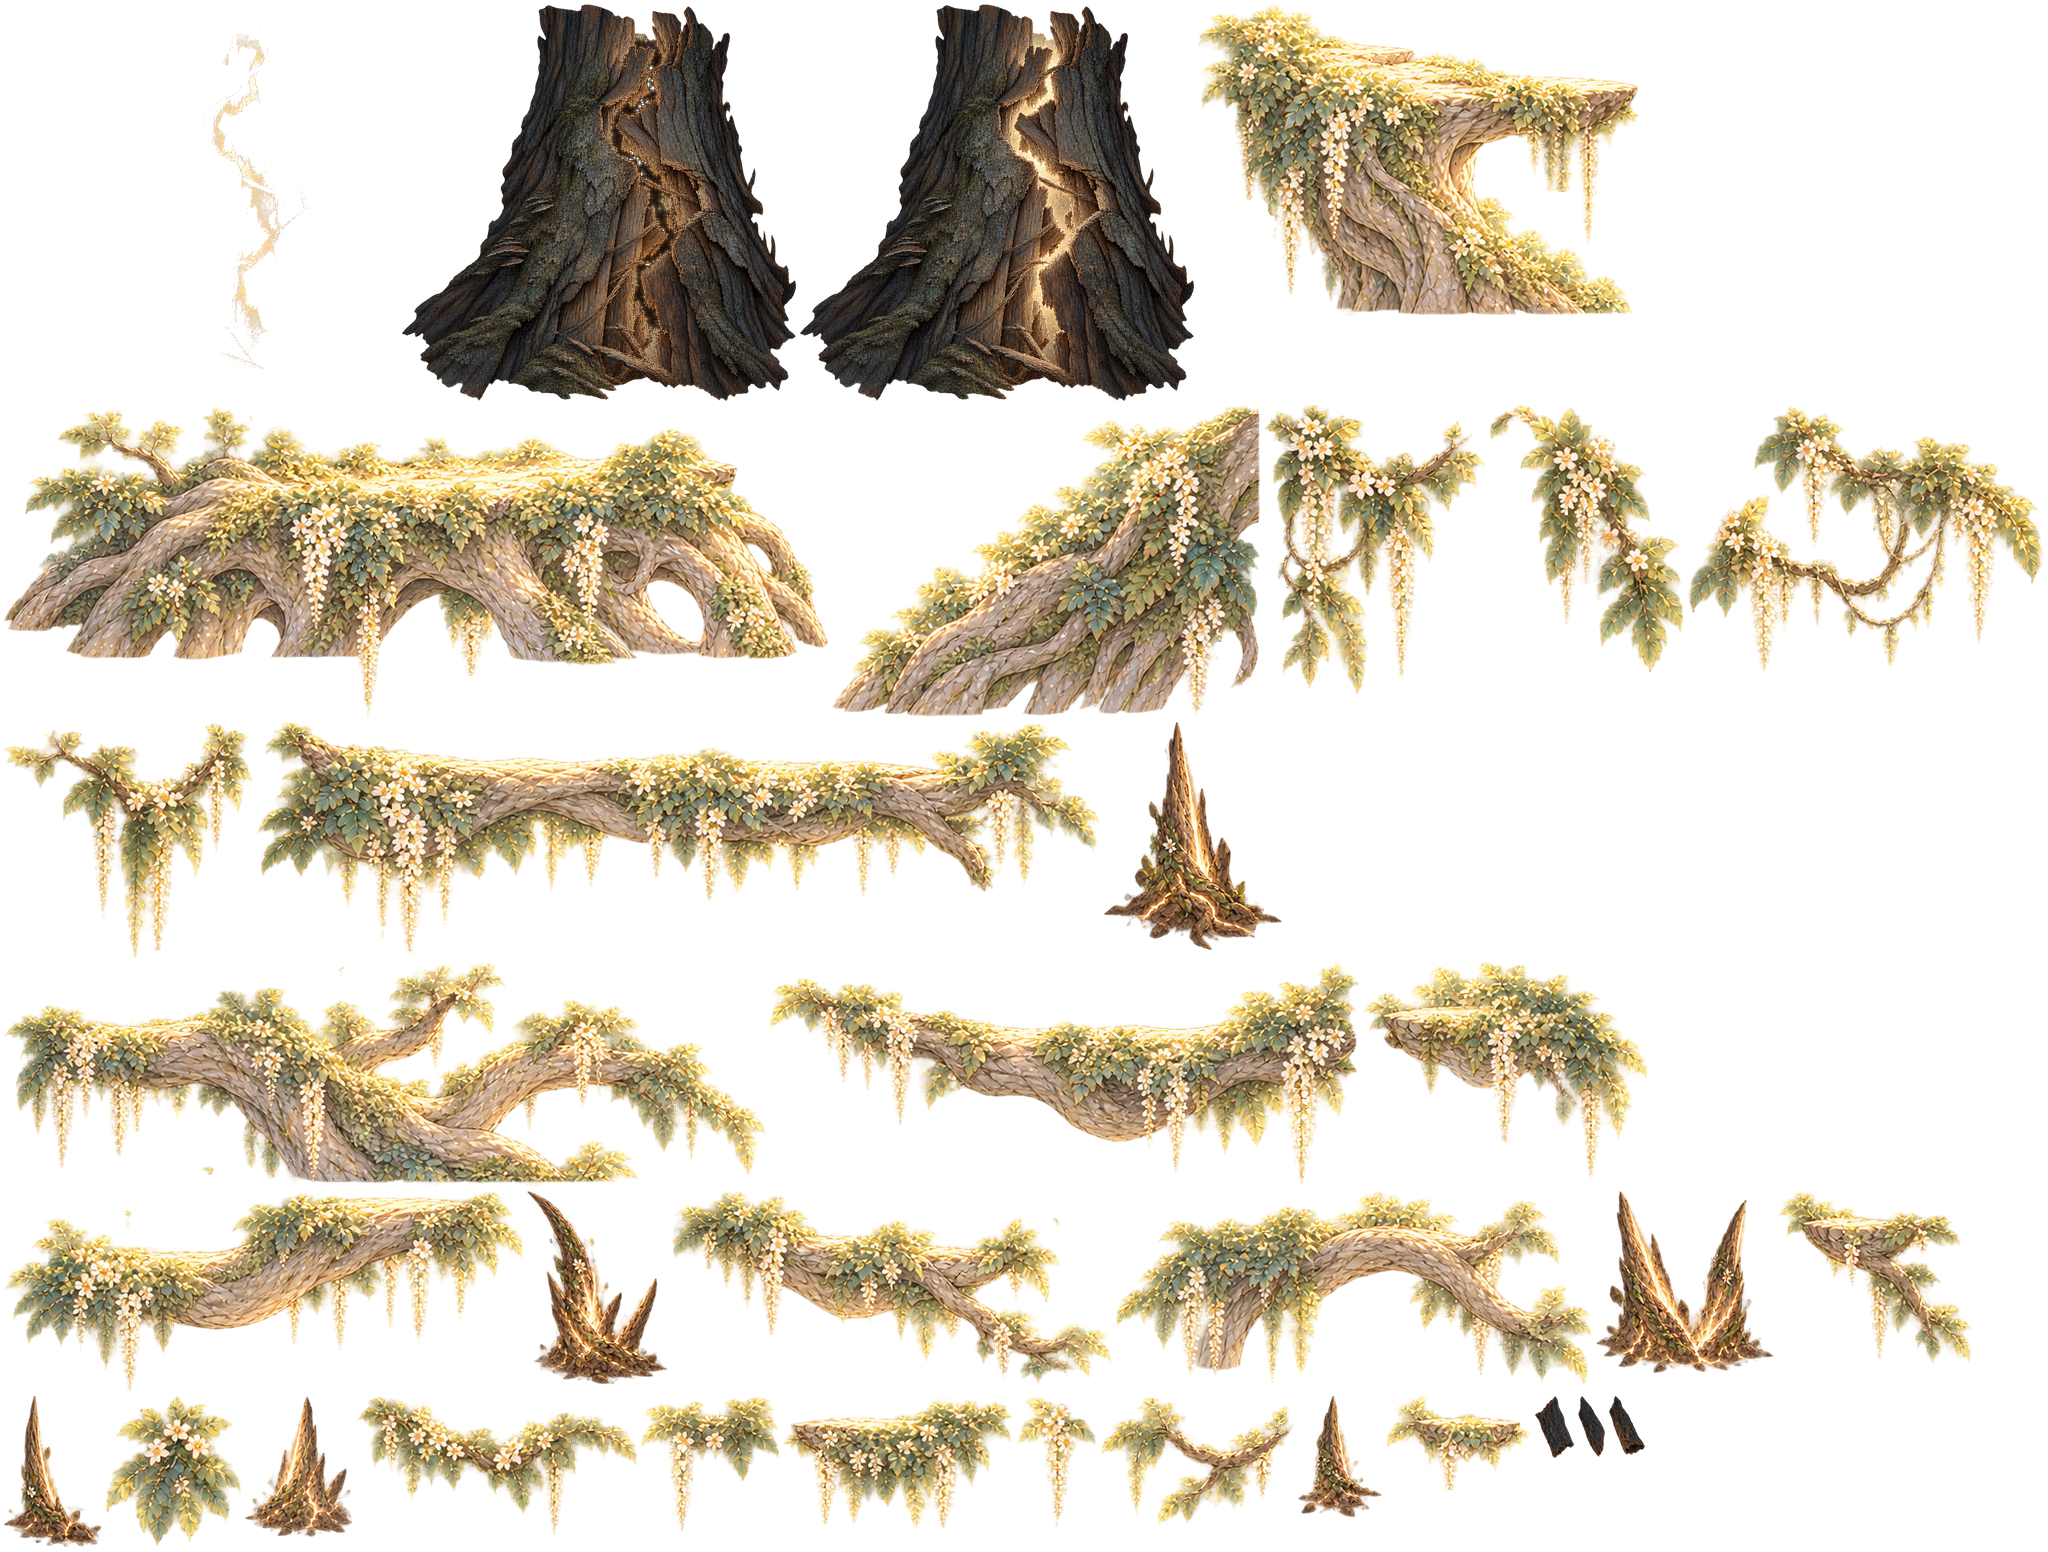
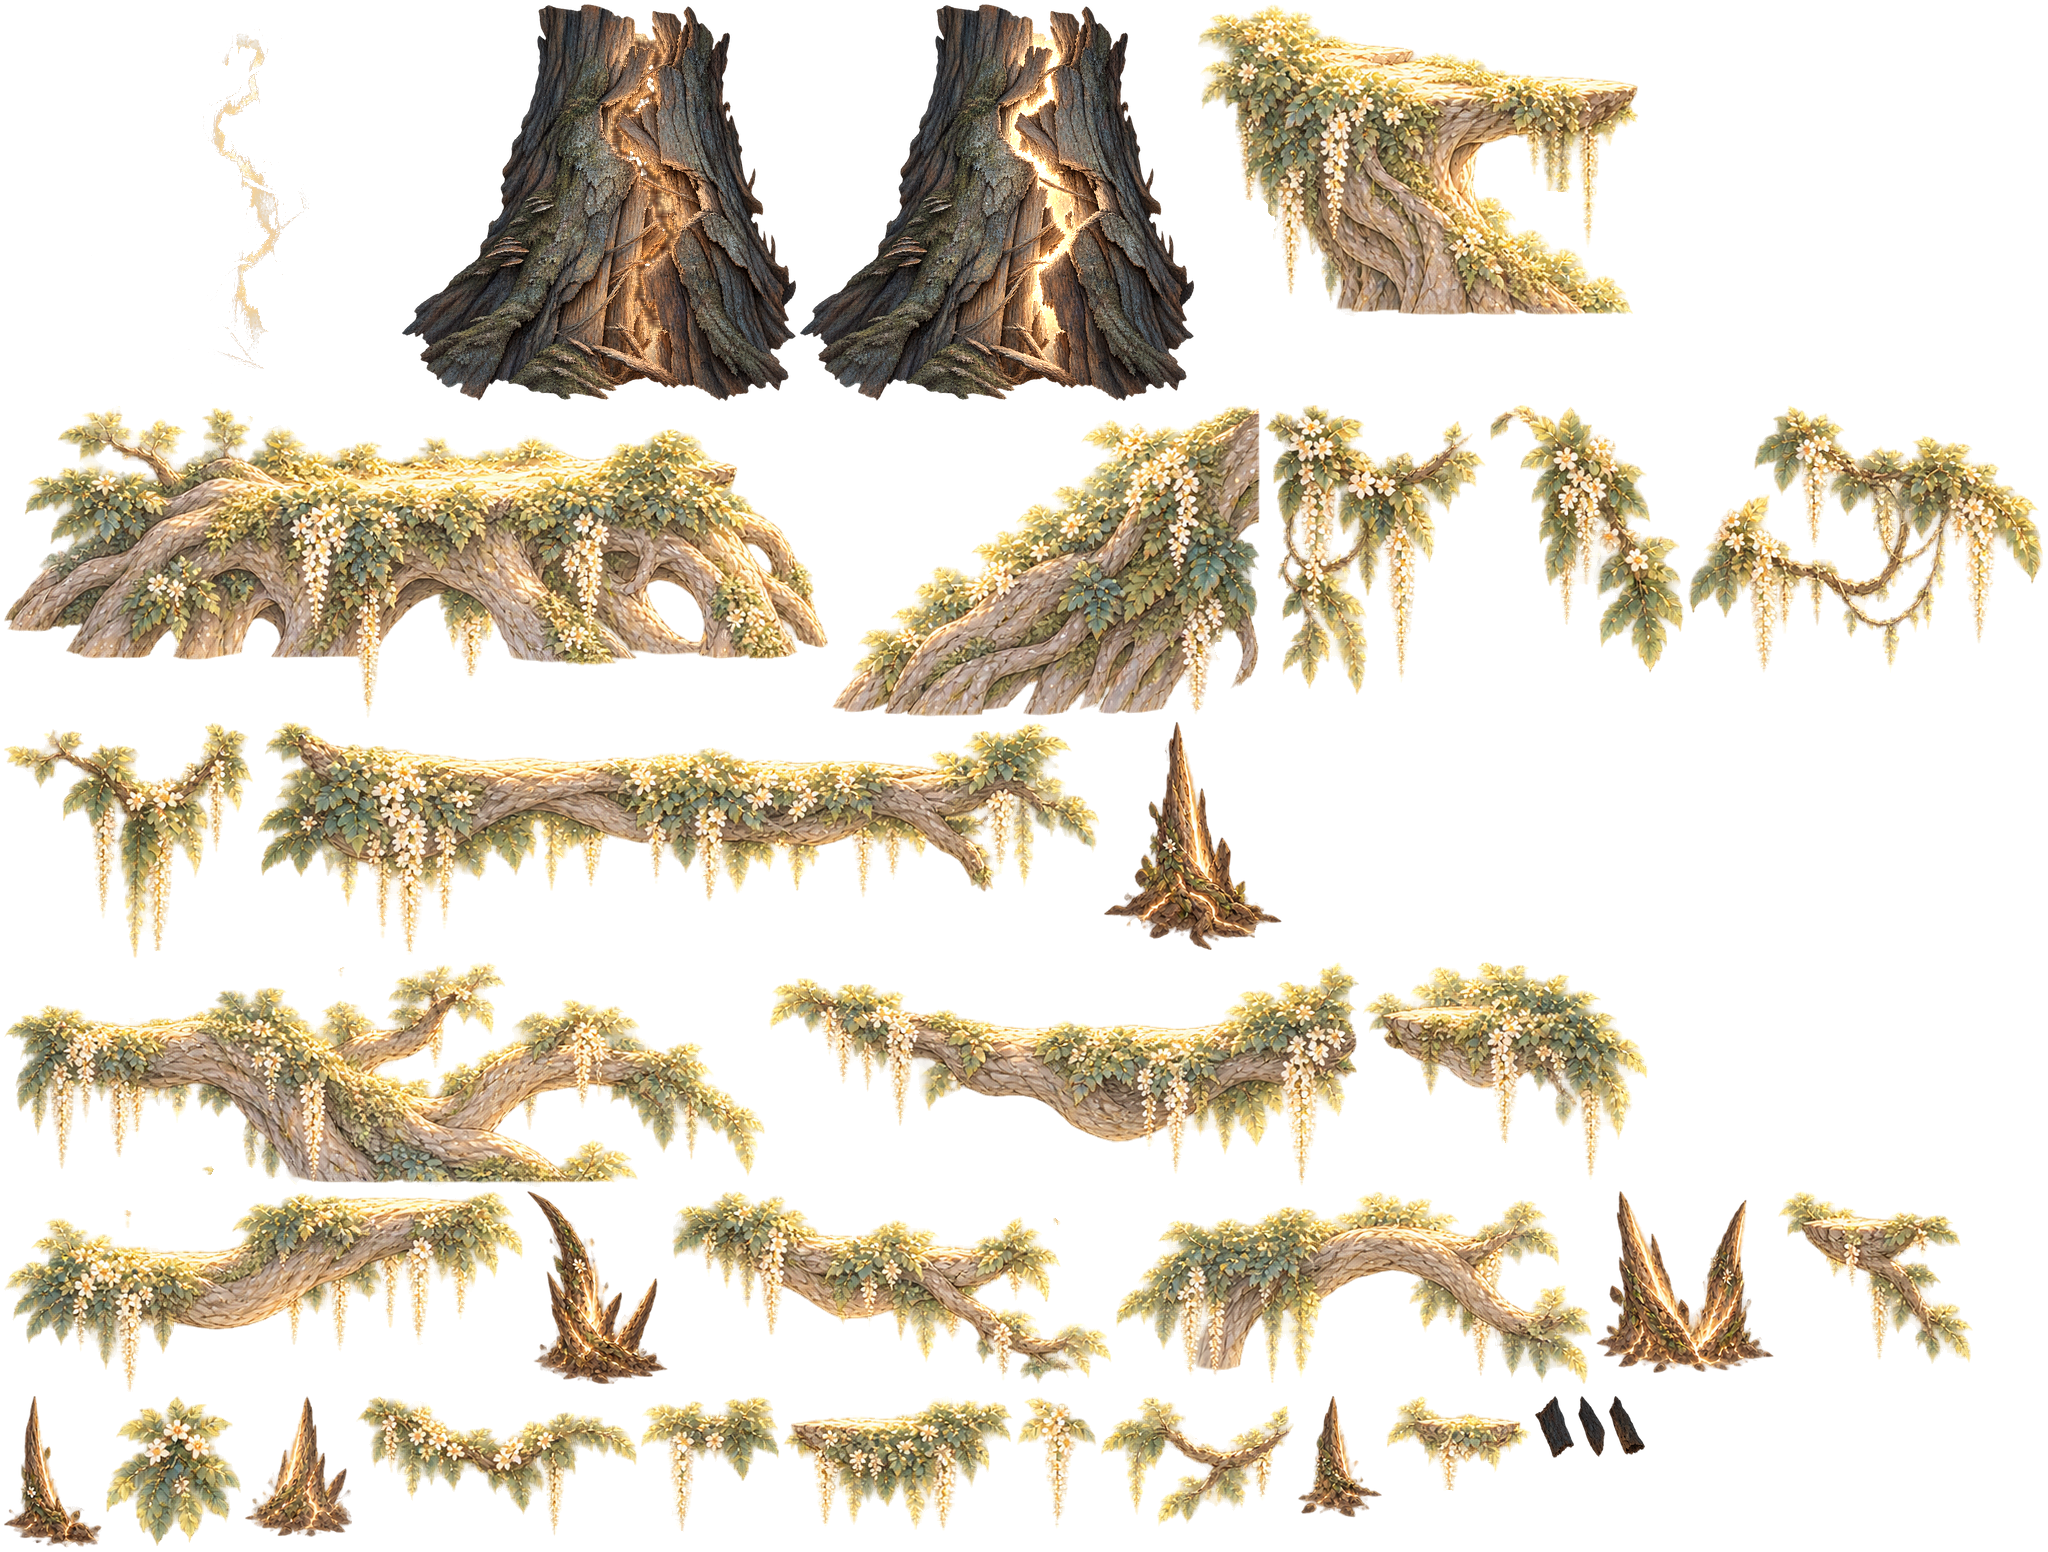
지형 리뉴얼 1: 몸통 결을 금 간 나무 껍질에서 만들기·밝기 굽기, 바닥 띠 이음매 없애기(뒤집기 페이드 고침), 걷는 구간 끝 다듬기, 설명서 TERRAIN.md

Changed region(s): [[0.2188, 0.0, 0.5938, 0.2784]]

diff --git a/TERRAIN.md b/TERRAIN.md
@@ -1,0 +1,121 @@
+# 지형 그림 조각 시스템 (TERRAIN)
+
+기획자가 준 **투명 배경 지형 그림 시트**에서 조각을 잘라, 방의 발판·바닥·경사·벽에 입히는 방식이다.
+코드로 그리던 옛 지형(`TerrainStyle`, 이끼·덩굴을 도형으로 그림)을 지역별로 하나씩 바꿔 간다.
+**충돌(발판 사각형·경사 다각형)은 그대로**고, 겉모습만 바뀐다. 그림 옷이 없는 지역은 옛 방식으로 그대로 그린다.
+
+지금 그림 옷이 있는 지역: **수관(canopy)** 13방 전부.
+
+---
+
+## 1. 무엇이 어디에 있나
+
+| 파일 | 하는 일 |
+|---|---|
+| `data/terrain/<지역>.json` | 사람이 쓰는 지역 설명: 자를 조각 목록(시트·상자·역할), 색, 몸통 결 만들기, 잿빛 팔레트, 역할별 세기 |
+| `tools/terrain_cut.gd` | 자르기 도구: 시트 → `art/terrain/<지역>/` (atlas.png, fill.png, fill_v.png, pieces.json) + 미리보기 |
+| `art/terrain/<지역>/pieces.json` | 도구가 잰 값: 조각의 atlas 자리, 발 딛는 선(top), 걷는 구간(walk), 두께(depth) |
+| `scripts/world/terrain_skin.gd` | `TerrainSkin`: 위 두 파일을 읽은 '그림 옷'. 없으면 null → 옛 방식 |
+| `scripts/world/terrain_art.gd` | `TerrainArt`: 발판·경사·가시의 자식으로 붙어 조각을 이어 붙인 겉모습을 한 번 만든다 |
+| `scripts/world/cracked_art.gd` | `CrackedArt`: 금 간 나무 벽 그림 (비밀 벽·비밀 천장·금 간 벽) — 맞을수록 갈라지고, 부서지면 조각이 떨어진다 |
+| `scripts/autoload/purity.gd` | 잿빛 팔레트 표(64×8)를 지역마다 만들어 공용 재질에 넣는다 |
+| `shaders/ash_purify*.gdshader` | 팔레트 바꾸기 셰이더 (정화 전 잿빛 ↔ 정화 후 원래 색, 한 점에서 번지는 연출) |
+| `tools/room_shots.gd` | 방 스크린샷 (정화 전·후, 바둑판 또는 원하는 자리) |
+| `tools/probe_terrain.tscn` | 시험 (9번 항목이 그림 조각 지형) |
+
+`Platform`(`platform.gd`)·`TerrainPolygon`(`terrain_polygon.gd`)·`Thorns`(`thorns.gd`)는 `_ready` 에서
+`TerrainSkin.for_node(self)` 로 지역 그림 옷을 찾고, 있으면 `TerrainArt` 를 만들어 붙인다 (없으면 옛 그리기).
+지역은 조상 `Room` 의 `region` (노드의 `style_region` 으로 강제할 수 있다).
+
+---
+
+## 2. 조각의 역할 (role)
+
+| 역할 | 쓰는 곳 | 붙이는 법 |
+|---|---|---|
+| `branch` | 떠 있는 얇은 발판(높이 90 이하·폭 120 이상), 얇은 경사 | 걷는 구간을 발판 폭에 맞춘다: 한 조각(크기 0.85~1.2배, 가로 늘이기 ±15%)이 맞으면 그것, 아니면 왼끝 + 가운데 토막들 + 오른끝을 40px 겹쳐 이어 붙인다 |
+| `slab` | 짧은 한쪽 방향(one_way) 발판 (폭 `params.slab.max_w` 이하, 양 끝이 드러난 것) | 위와 같음 |
+| `ground` | 큰 바닥·덩어리·두꺼운 경사의 드러난 윗면 | 윗면을 따라 토막을 이어 깐다. 발 선 아래 `band` px 까지만 그리고 `fade` px 동안 몸통 결로 녹아든다. 절벽 끝은 끝 조각(뿌리가 늘어진 부분), 이웃 지형으로 이어지면 `overlap` px 겹쳐 서서히 사라진다 |
+| `hang` | 드러난 아랫면(천장·덩어리 밑), 드러난 높은 옆면 | 덩굴·꽃 조각을 띄엄띄엄 매단다 |
+| `bush` | 큰 윗면 | 가끔 작은 덤불 |
+| `thorn` | 가시(Thorns) | 크기를 섞어 두 줄로 겹쳐 세운다. 밑동은 바닥에 묻고 끝은 판정 위로 |
+| `shard` | 금 간 벽이 부서질 때 | 껍질 파편 |
+| `cracked` (+`_closed`, `_glow`) | 금 간 벽 | `extras` 의 `kind: "cracked"` 가 세 장을 만든다 (아래 4장) |
+| `source` | 몸통 결 재료만 | `"atlas": false` — atlas 에 안 들어간다 |
+
+몸통(덩어리 안쪽)은 **이음매 없는 나무껍질 결**(`fill.png` 가로 결, `fill_v.png` 세로 결 — 벽·기둥처럼 세로로 긴 덩어리)을
+전역 좌표로 깔아서 이웃 덩어리와 결이 이어진다. 윗면에서 멀어질수록 어두워지고(`fill.deep`), 드러난 가장자리는 조금 어둡다(`fill.rim`).
+드러난 옆변·아랫변은 그림에서만 살짝 울퉁불퉁하다(충돌은 곧은 그대로).
+
+**드러남**: 옆 지형(같은 부모 아래 발판·경사 — 부서지는 벽은 뺀다)에 덮였거나 방 경계 밖이면 장식·띠·끝 조각을 붙이지 않는다.
+
+---
+
+## 3. 새 지역 그림 옷 만들기 (다른 지역 담당자용)
+
+1. **시트 보기**: 조각 상자를 미리 찾아 둔 목록이 있으면 그걸 쓴다. 없으면
+   `godot --headless --path . --script tools/sheet_catalog.gd -- 익스펜션/그림/지형/<시트>.PNG --out <폴더>`
+   → `<폴더>/<시트>/overview.png`(상자 번호), `catalog.json`(상자 x,y,w,h).
+2. **설명 쓰기**: `data/terrain/canopy.json` 을 복사해 `data/terrain/<지역>.json` 으로.
+   - `region`, `name`, `cut.sheet`(시트 경로, `res://익스펜션/...` — 읽기만 한다)
+   - `cut.pieces`: `{"name", "role", "src": [x, y, w, h]}` — src 는 대략적인 상자면 된다. 상자에 가장 많이 든 덩어리(+상자에 절반 넘게 든 덩어리)를 자른다.
+     옆 조각이 섞이면 `"keep": "largest"`. 다른 시트에서 가져오면 `"sheet"`. 크면 `"scale": 0.5`.
+     자동으로 잰 걷는 구간이 이상하면 `"walk": [x0, x1]`(조각 안 px)로 바로잡는다.
+   - `cut.fill`: 몸통 결 재료(`from`: 조각 이름들)와 고를 색 범위(`hue` 도, `sat`, `val`), 네모 크기(`patch`), 결 방향(`vertical`), 밝기(`bright`)
+   - `cut.extras`: 금 간 벽 (`{"name": "cracked", "kind": "cracked", "sheet", "src", "out_scale", "bright"}`)
+   - `tint`(정화 후 색 곱하기, 1 이하), `lift`(발 선을 충돌 윗면보다 몇 px 위에), `fill`(몸통 밝기), `params`(역할별 세기), `ash`(잿빛 팔레트, 4장)
+3. **자르기**: `/Users/wj/Projects/SeedWT/godot --headless --path . -s res://tools/terrain_cut.gd -- <지역>`
+   → `art/terrain/<지역>/` 와 `screenshots/terrain_<지역>_pieces.png` (빨간 선 = 발 딛는 선, 초록 = 걷는 구간 끝, 옅은 빨강 = 걷는 구간 밖).
+   그 다음 **꼭** `tools/cloud_bootstrap.sh` (또는 `godot --headless --import`) — 안 하면 게임이 옛 그림을 쓴다.
+4. **확인**: 아래 5장. 그 지역 방을 `ART_ROOMS`(tools/probe_terrain.gd)에 더하면 시험이 맞춤까지 잰다.
+5. 그림 옷을 잠깐 끄려면 `data/terrain/<지역>.json` 에 `"enabled": false`.
+
+`data/terrain/_objects.json` 은 지역이 아닌 단독 그림(기록물 양피지 `art/objects/record_parchment.png`)을 자르는 설명이다 (`enabled: false`).
+
+### 발 딛는 선 (맞춤의 핵심)
+도구가 조각마다 열(세로줄)별로 **빽빽한 윗면**(불투명 픽셀이 12px 이어지기 시작하는 높이)을 찾고,
+8px 마다 ±56px 안의 60% 백분위 → 이웃과 평균으로 고른 선을 `pieces.json` 의 `top` 에 적는다 (잎 끝 몇 장은 무시).
+**걷는 구간**(`walk`)은 선이 가운데 높이에서 크게 벗어나지 않고 아래가 차 있는 가장 긴 구간이며,
+끝 24px 의 90% 이상이 발 선 8px 아래까지 차 있을 때까지 안쪽으로 줄인다 (둥근 끝 위에 충돌 끝이 오지 않게).
+게임은 이 선을 펴서 충돌 윗면에 놓는다 → 소녀는 늘 그림 위에 서 있다.
+
+---
+
+## 4. 잿빛 ↔ 정화 (팔레트 바꾸기)
+
+`ash_purify` 셰이더는 원래 색의 **밝기와 색상**으로 지역의 잿빛 표(64×8 그림)를 찾아 바꾼다:
+0번 줄 = 무채색(밝기 → 잿빛 색), 1~6번 줄 = 빨강·노랑·초록·청록·파랑·자홍 띠. 채도가 낮으면 무채색 줄.
+밝기 순서가 지켜져 그림이 뭉개지지 않고 잎·껍질·꽃이 서로 다른 잿빛으로 남는다. 1 넘는 빛(발광)은 밝기를 지킨다.
+
+표는 `data/terrain/<지역>.json` 의 `ash` 로 정한다:
+```json
+"ash": {
+  "neutral": [[0.0, "#14161b"], [0.55, "#7d828b"], [1.0, "#e6e8ea"]],
+  "hues": {"green": [[0.0, "#121619"], [0.6, "#7e888a"], [1.0, "#e2e7e6"]], "yellow": [...]}
+}
+```
+(밝기 0~1 → 그 밝기의 잿빛 색, 사이는 이어 칠함. 정하지 않은 색상 띠는 무채색 줄을 쓴다.)
+`ash` 가 없는 지역은 `Purity.ASH_TINTS` 색조로 기본 표를 만든다 (옛 셰이더보다 중간 밝기가 밝다 — 기획자 의견 "잿빛이 너무 어둡다").
+`Purity.apply_region` 이 방에 들어올 때 그 지역 표를 공용 재질에 넣고, `play_purify` 는 그대로 한 점에서 번진다.
+배경·안개·잎·빛줄기·지형·가시·금 간 벽 모두 같은 공용 재질이라 함께 바뀐다. 정화된 곳(purity 1)은 표를 찾지 않는다(가벼움).
+
+---
+
+## 5. 맞춤 확인하는 법
+
+- **방 스크린샷** (창이 잠깐 뜬다):
+  `godot --path . -s res://tools/room_shots.gd -- canopy_01 --alive`
+  → `screenshots/room_canopy_01_alive_<n>.png` (방 전체를 바둑판으로). `--ash` 는 정화 전.
+  가까이: `--zoom=1.6 "--at=1300,900;3300,1900"` (화면 1px ≈ 월드 1px 은 1.5 안팎).
+  **`--lines`** 를 주면 충돌 윗면을 빨간 선으로 겹쳐 그린다 → 그림 윗면이 선에 붙어 있는지 본다.
+- **시험**: `godot --headless --path . res://tools/probe_terrain.tscn -- --art`
+  (수관 13방: 모든 지형이 그림, 충돌 그대로, 드러난 윗면마다 발밑 8px 이 그림으로 90% 넘게 덮이고 그림 윗선이 충돌 윗면 ±10px,
+  만들기 비용, 정화 프레임에 다시 안 만들기, 잿빛 표, 금 간 벽 단계·부서짐, 기록물 그림.)
+  `--verbose` 면 발밑이 빈 자리를 찍는다.
+- **실제 렌더러 비용**: `godot --path . res://tools/probe_terrain.tscn -- --cost`
+- **지형 감사**: `python3 -I tools/audit_rooms.py` 오류 0 (충돌은 바꾸지 않으므로 그대로여야 한다).
+
+## 6. 성능 (아이폰 11 Pro 기준)
+- 겉모습은 방에 들어올 때 한 번 만든다 (수관 방 평균 약 13ms). 매 프레임 다시 그리지 않고, 정화 연출 중에도 안 바뀐다 (셰이더만).
+- 노드 하나에 그리기 호출 최대 4번(가로 결·세로 결·atlas·색만), 방 하나 삼각형 2만 개 안팎.
+- atlas 는 GPU 압축(ASTC)·밉맵, 몸통 결은 512×512 반복.

diff --git a/GAME_DESIGN.md b/GAME_DESIGN.md
@@ -407,6 +407,7 @@
 - **앞쪽 지형 (게임 내 제작):** 뒷배경을 기준으로 그 위에 발판과 지형을 만든다.
   - 지형은 어두운 실루엣 톤이되, **뒷배경의 주된 색을 살짝 입혀** 한 그림처럼 어울리게 한다.
   - 지형 윗면에는 배경의 빛을 받은 **가는 테두리 빛**을 넣는다.
+  - **그림 조각 지형 (2026-10-20):** 기획자가 준 투명 배경 지형 시트를 잘라(가지 발판·바닥 윗면 띠·매단 덩굴·뿌리 가시·금 간 나무) 발판 모양에 맞춰 이어 붙인다. 소녀가 서는 충돌 윗면과 그림의 윗면을 맞춘다(발밑이 비거나 뜨지 않게). 정화 전 잿빛은 **팔레트 바꾸기**(지역별 잿빛 색표, 예전보다 밝게). 지금은 수관 전부, 다른 지역은 그림이 오는 대로 같은 방식으로. 만드는 법·확인법은 `TERRAIN.md`.
 - **수량:** 지역당 배경 2~4장, 1편 전체 약 10장 안팎.
 
 ### 빛과 효과 (셰이더)
